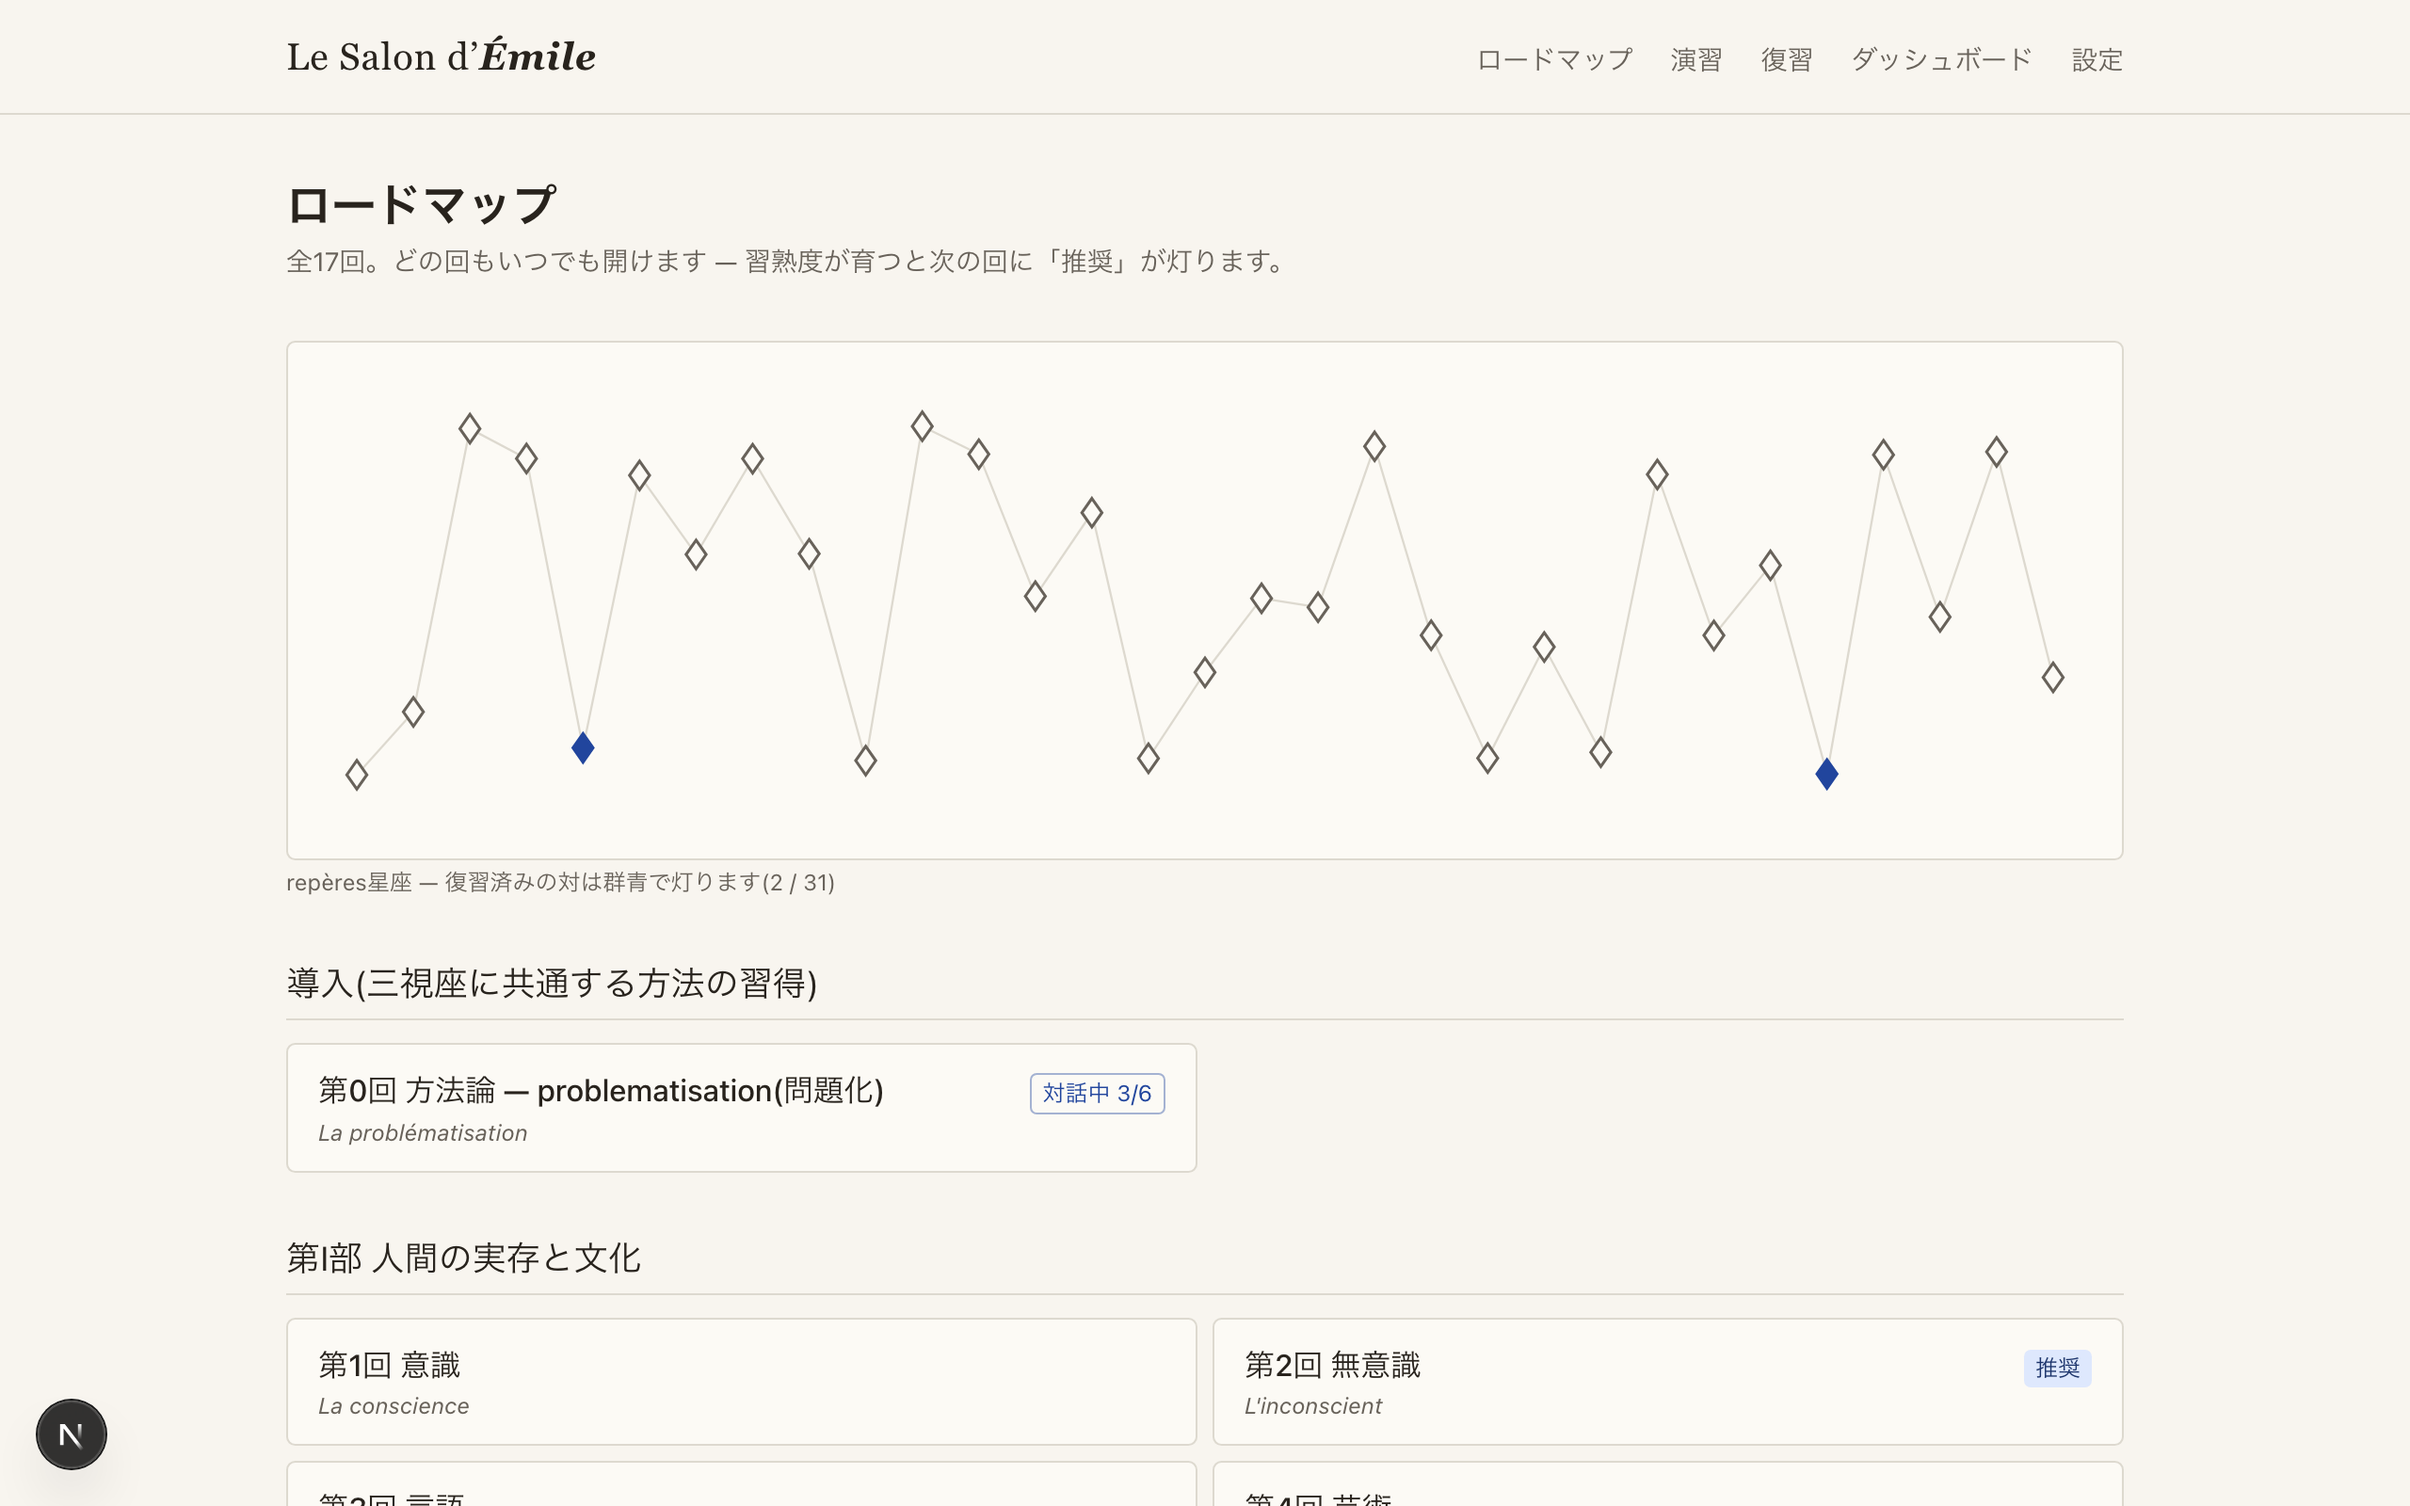
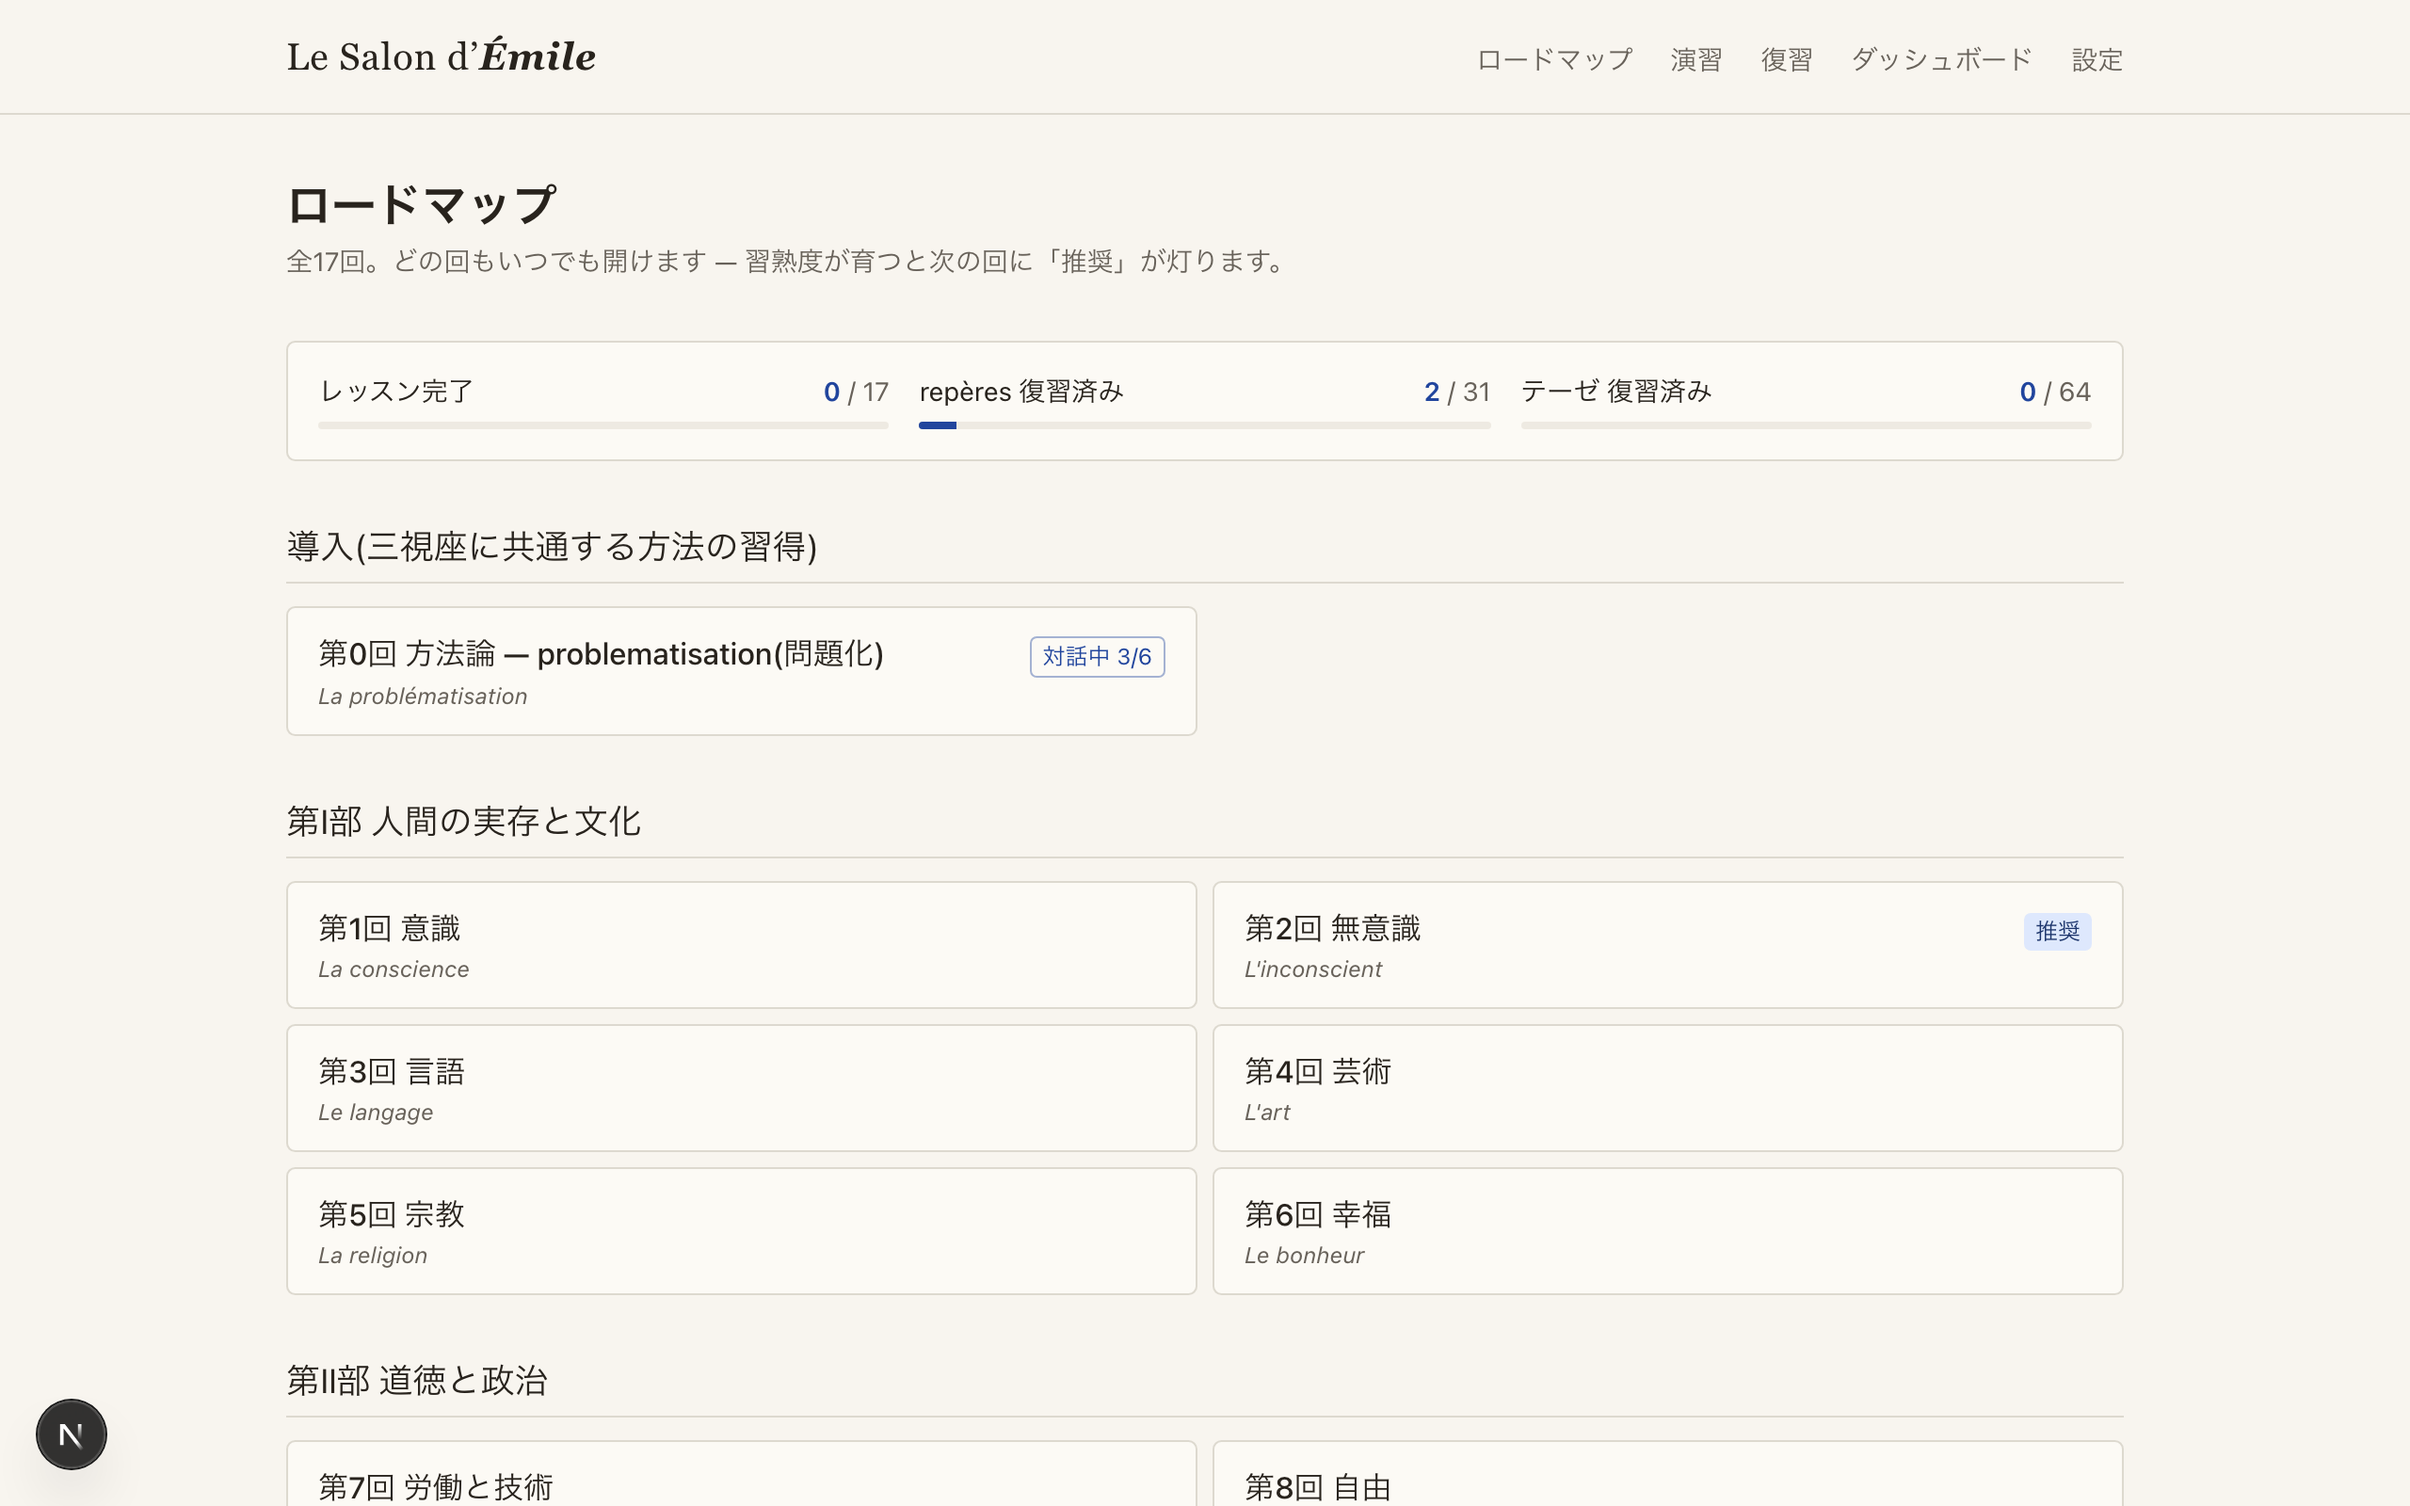
feat(roadmap): replace the reperes constellation with plain progress bars
Learner feedback: the constellation dots were illegible and unexplained.
The roadmap now shows three labeled bars — lessons completed, reperes
reviewed, theses reviewed — clarity over decoration.

diff --git a/src/app/page.tsx b/src/app/page.tsx
@@ -1,16 +1,16 @@
 /**
- * Roadmap screen — the 17-session journey in three parts plus the repères
- * constellation. The mastery gate is soft: reaching it only marks the next
+ * Roadmap screen — the 17-session journey in three parts with plain
+ * progress bars. The mastery gate is soft: reaching it only marks the next
  * session as recommended; nothing is ever locked.
  */
 import Link from "next/link";
-import { RepereConstellation } from "@/components/repere-constellation";
+import { ProgressOverview } from "@/components/progress-overview";
 import { getDb } from "@/db/client";
 import { LESSON_STEPS } from "@/domain/lesson";
-import { listReperes, listSessions } from "@/server/canon";
+import { listSessions } from "@/server/canon";
 import { listActiveRuns, listCompletedRuns } from "@/server/lesson";
 import { isSessionMasteryReached } from "@/server/mastery";
-import { reviewedRepereIds } from "@/server/review";
+import { reviewedCountsByKind } from "@/server/review";
 
 export const dynamic = "force-dynamic";
 
@@ -18,6 +18,7 @@ export default async function RoadmapPage() {
   const db = getDb();
   const sessions = listSessions(db);
   const completed = new Set(listCompletedRuns(db).map((r) => r.sessionN));
+  const cardProgress = reviewedCountsByKind(db);
   const inProgress = new Map(
     listActiveRuns(db)
       .filter((r) => !completed.has(r.sessionN))
@@ -53,9 +54,20 @@ export default async function RoadmapPage() {
         </p>
       </div>
 
-      <RepereConstellation
-        reperes={listReperes(db)}
-        reviewedIds={reviewedRepereIds(db)}
+      <ProgressOverview
+        items={[
+          { label: "レッスン完了", done: completed.size, total: sessions.length },
+          {
+            label: "repères 復習済み",
+            done: cardProgress.repere.reviewed,
+            total: cardProgress.repere.total,
+          },
+          {
+            label: "テーゼ 復習済み",
+            done: cardProgress.thesis.reviewed,
+            total: cardProgress.thesis.total,
+          },
+        ]}
       />
 
       {[...phases.entries()].map(([phase, group]) => (

diff --git a/src/components/progress-overview.tsx b/src/components/progress-overview.tsx
@@ -1,0 +1,40 @@
+/**
+ * Plain progress bars for the roadmap: lessons completed, repères and
+ * theses reviewed at least once. Numbers first, decoration second.
+ */
+import { Progress } from "@/components/ui/progress";
+
+export type ProgressItem = {
+  label: string;
+  done: number;
+  total: number;
+};
+
+export function ProgressOverview({ items }: { items: ProgressItem[] }) {
+  return (
+    <section
+      className="grid gap-4 rounded-md border border-border bg-card p-4 sm:grid-cols-3"
+      data-testid="progress-overview"
+      aria-label="学習の進捗"
+    >
+      {items.map((item) => {
+        const pct = item.total === 0 ? 0 : (item.done / item.total) * 100;
+        return (
+          <div key={item.label} className="flex flex-col gap-1.5">
+            <div className="flex items-baseline justify-between text-sm">
+              <span>{item.label}</span>
+              <span className="font-semibold text-primary">
+                {item.done}
+                <span className="font-normal text-muted-foreground">
+                  {" "}
+                  / {item.total}
+                </span>
+              </span>
+            </div>
+            <Progress value={pct} aria-label={`${item.label} ${item.done}/${item.total}`} />
+          </div>
+        );
+      })}
+    </section>
+  );
+}

diff --git a/src/server/review.ts b/src/server/review.ts
@@ -227,17 +227,21 @@ export function reviewedCardStats(db: Db): { total: number; reviewed: number } {
   };
 }
 
-/** Repere ids that have been reviewed at least once (constellation fill). */
-export function reviewedRepereIds(db: Db): Set<string> {
-  return new Set(
-    db
-      .select()
-      .from(cards)
-      .where(eq(cards.kind, "repere"))
-      .all()
-      .filter((c) => c.reps > 0)
-      .map((c) => c.sourceId)
-  );
+export type KindProgress = { reviewed: number; total: number };
+
+/** Reviewed-at-least-once counts per canon card kind (roadmap progress). */
+export function reviewedCountsByKind(
+  db: Db
+): Record<"repere" | "thesis", KindProgress> {
+  const rows = db.select({ kind: cards.kind, reps: cards.reps }).from(cards).all();
+  const tally = (kind: "repere" | "thesis"): KindProgress => {
+    const ofKind = rows.filter((r) => r.kind === kind);
+    return {
+      reviewed: ofKind.filter((r) => r.reps > 0).length,
+      total: ofKind.length,
+    };
+  };
+  return { repere: tally("repere"), thesis: tally("thesis") };
 }
 
 /** A fresh FSRS state for external callers needing card creation. */

diff --git a/e2e/screenshots/screenshots.spec.ts b/e2e/screenshots/screenshots.spec.ts
@@ -64,8 +64,8 @@ test("五画面のスクリーンショットを生成する", async ({ page }) 
   await expect(page.getByTestId("mastery-radar")).toBeVisible();
   await capture(page, "dashboard.png");
 
-  // --- roadmap: constellation partially lit, recommendation visible
+  // --- roadmap: progress bars and in-progress badges visible
   await page.goto("/");
-  await expect(page.getByTestId("repere-constellation")).toBeVisible();
+  await expect(page.getByTestId("progress-overview")).toBeVisible();
   await capture(page, "roadmap.png");
 });

diff --git a/src/server/canon.ts b/src/server/canon.ts
@@ -37,7 +37,7 @@ export function listNotions(db: Db) {
   return db.select().from(notions).orderBy(asc(notions.session)).all();
 }
 
-/** All reperes (for the roadmap constellation and review cards). */
+/** All reperes (for review cards and session plans). */
 export function listReperes(db: Db) {
   return db.select().from(reperes).all();
 }

diff --git a/docs/decisions.md b/docs/decisions.md
@@ -20,3 +20,4 @@ Ambiguities resolved autonomously per CLAUDE.md / GOAL_PROMPT.md. One line each:
 - 2026-07-17: Learner feedback rework — /lessons/[n] is now a textbook reading page (all canon sections + AI model answers per canonical question, generated once and cached; role `modelAnswer` on the grader slot); the dialogue moved to /lessons/[n]/dialogue with a learner-initiated advance button (same server-side production gate as the tutor tool), visible step goals, and a 2–3-exchanges-per-step pacing instruction; the roadmap shows in-progress runs (対話中 n/6).
 - 2026-07-17: The reveal guardrail (event + forced variant) stays scoped to *practice*; reading model answers on the textbook page is intentionally friction-free — the learner explicitly asked for a textbook to study from, and the textbook nudges self-attempt in copy instead (ADR 0007 amended).
 - 2026-07-17: Body typography switched from Noto Serif JP to the system sans-serif stack (Helvetica / Hiragino Sans / Meiryo) at the learner's request; the serif italic remains only in the Émile logotype. Also removes the Google Fonts build-time dependency. CLAUDE.md style rule updated to match.
+- 2026-07-17: The repères constellation on the roadmap was replaced by plain labeled progress bars (lessons completed / repères reviewed / theses reviewed) — learner feedback: the dots were illegible and unexplained; clarity beats decoration.
